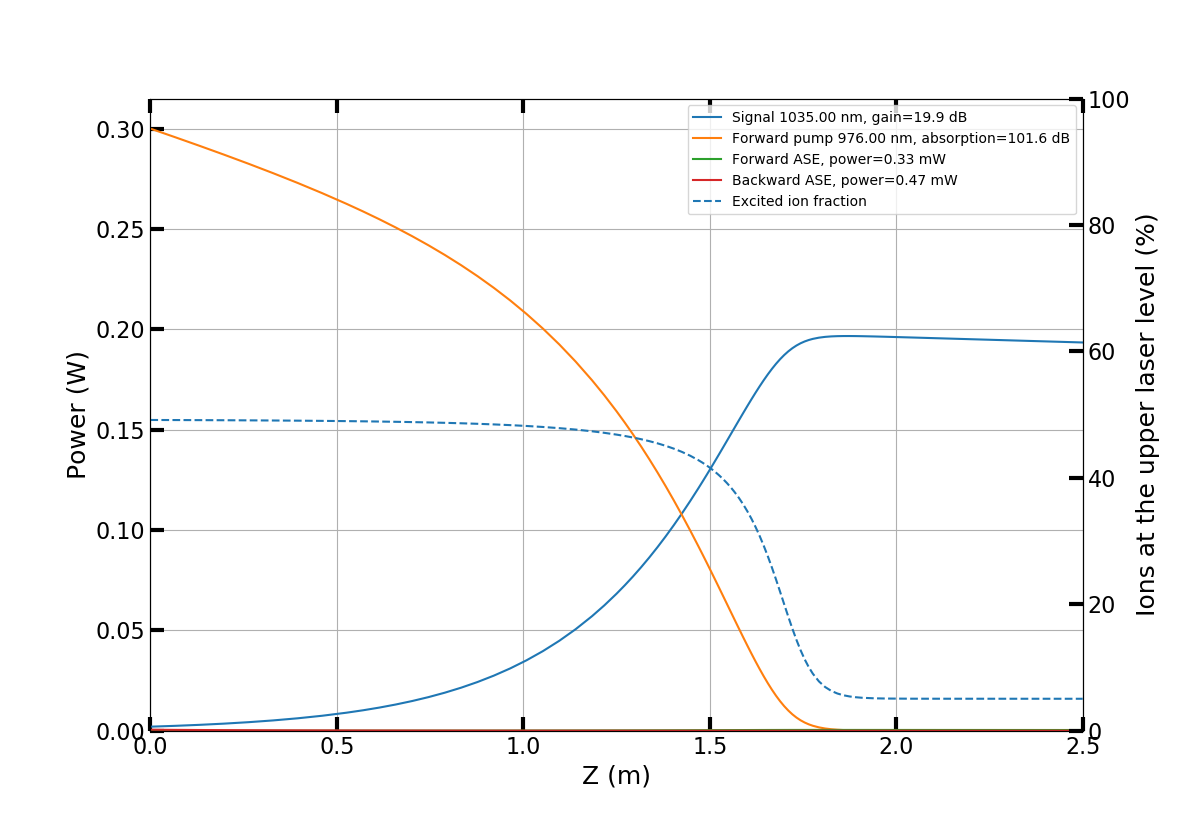
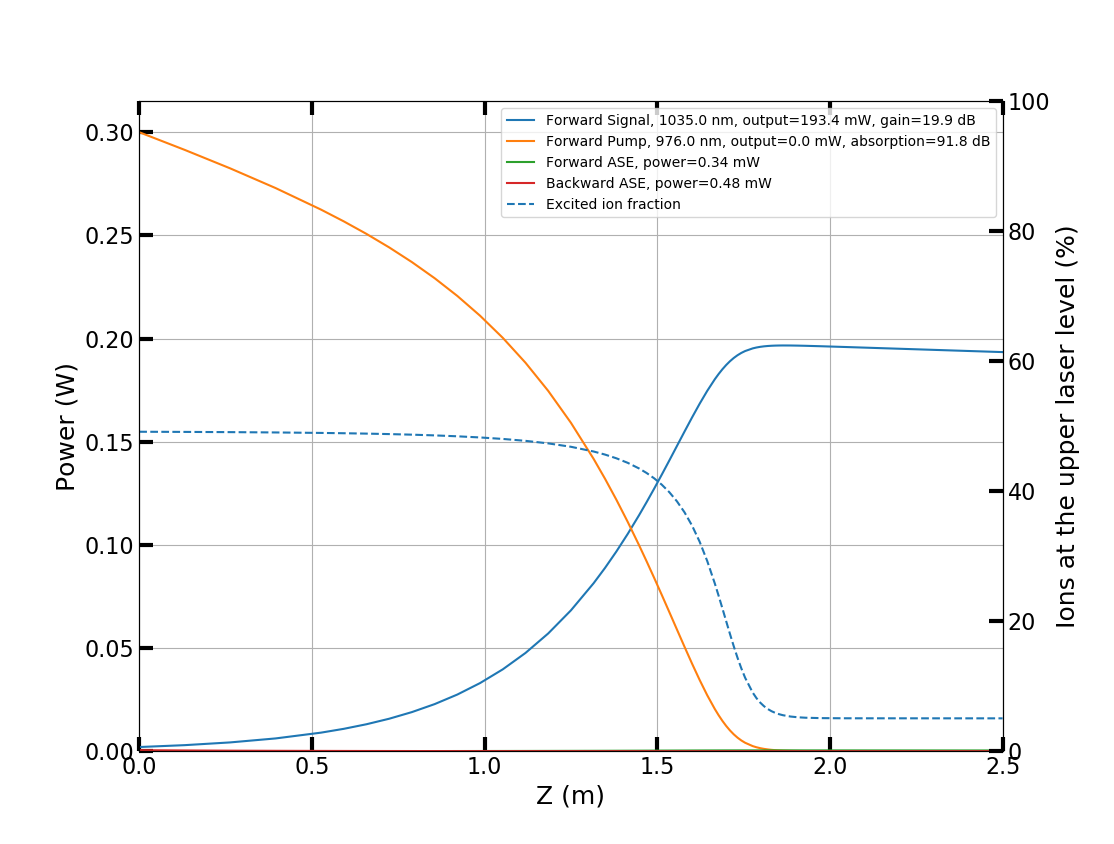
Finalizing Readme, setup.py and License for release of dynamic simulation.

diff --git a/README.html b/README.html
@@ -366,17 +366,25 @@ ul.auto-toc {
 <div class="section" id="in-short">
 <h1>In short</h1>
 <p>PyFiberAmp is a rate equation simulation tool for rare-earth-doped fiber amplifiers and fiber lasers partly based on the Giles
-model <a class="footnote-reference" href="#id4" id="id1">[1]</a>. PyFiberAmp allows an arbitrary number of user-defined time-varying signals from continuous-wave steady-state operation to nanosecond pulses in both
+model <a class="footnote-reference" href="#id4" id="id1">[1]</a>. PyFiberAmp allows an arbitrary number of user-defined time-varying signals from continuous-wave to nanosecond pulses in both
 core-pumped and double-clad fiber amplifiers. It also includes reflective boundary conditions for modeling simple CW, gain-switched and
 Q-switched fiber lasers. The time-dynamic simulations are accelerated by a dedicated partial differential equation solver written in C++.
 In addition to signal and pump beams, PyFiberAmp also supports amplified spontaneous emission (ASE) and stimulated and spontaneous Raman scattering effects (SRS) <a class="footnote-reference" href="#id5" id="id2">[2]</a> (SRS only in steady-state simulations).
 Documentation (still in progress) is available on <a class="reference external" href="https://pyfiberamp.readthedocs.io/en/latest/index.html">Read the Docs</a>.
-Do you have a question, a comment or a feature request? Please open a new issue on GitHub.</p>
+Do you have a question, comment or a feature request? Please open a new issue on GitHub
+or contact me at <a class="reference external" href="mailto:pyfiberamp&#64;gmail.com">pyfiberamp&#64;gmail.com</a>.</p>
+</div>
+<div class="section" id="a-visual-example">
+<h1>A visual example</h1>
+<p>Few-nanosecond pulses propagating in an Yb-doped fiber amplifier are distorted because of gain saturation.
+The Gaussian pulse with its exponential leading edge retains its shape better than the square or saw-tooth
+pulses.</p>
 <img alt="docs/images/pulses.gif" class="align-center" src="docs/images/pulses.gif" />
+<!-- Listaus: 1) esimerkkinotebookit, 2) pÃ¤ivitetyt kuvat readmehen 3) asennustesti tÃ¤llÃ¤ ja toisella koneella 4) merge -->
 </div>
 <div class="section" id="download">
 <h1>Download</h1>
-<p>PyFiberAmp is not yet on PyPI. You can clone the repository with</p>
+<p>PyFiberAmp is not yet on PyPI. You can either download the code as zip-file or clone the repository with</p>
 <pre class="literal-block">
 $ git clone git://github.com/Jomiri/pyfiberamp.git
 </pre>
@@ -385,32 +393,41 @@ $ git clone git://github.com/Jomiri/pyfiberamp.git
 python setup.py install
 </pre>
 </div>
+<div class="section" id="system-requirements">
+<h1>System requirements</h1>
+<p>PyFiberAmp depends on the standard scientific Python packages: Numpy, SciPy and Matplotlib and has been
+tested on Windows 7 and Windows 10. It but should work on other operating systems as well
+provided that Python and the required packages are installed. The <a class="reference external" href="https://www.anaconda.com/download/">Anaconda distribution</a> contains everything out of the box.</p>
+<p>Even though all of PyFiberAmp's functionality is available in interpreted Python code, the use of the separate
+C++ extension is recommended for computationally intensive time-dynamic simulations.
+The system requirements of the C++ extension are stricter: Windows 7 or 10, Python 3.6 and a fairly modern
+CPU with AVX2 instruction support. If you cannot satisfy the requirements, open a new issue or send me a message,
+and I'll try to provide you with a compatible (but slower) version.</p>
+</div>
 <div class="section" id="example">
 <h1>Example</h1>
 <p>The simple example below demonstrates a core-pumped Yb-doped fiber amplifier. All units are in SI.</p>
 <pre class="literal-block">
-from pyfiberamp import FiberAmplifierSimulation
+from pyfiberamp.steady_state import SteadyStateSimulation
 from pyfiberamp.fibers import YbDopedFiber
 
-yb_number_density = 2e25 # m^-3
-core_r = 3e-6
-background_loss = 0
-length = 2.5 # m
+yb_number_density = 2e25  # m^-3
+core_radius = 3e-6  # m
+length = 2.5  # m
 core_na = 0.12
-tolerance = 1e-5
 
 fiber = YbDopedFiber(length=length,
-                    core_radius=core_r,
+                    core_radius=core_radius,
                     ion_number_density=yb_number_density,
-                    background_loss=background_loss,
+                    background_loss=0,
                     core_na=core_na)
-simulation = FiberAmplifierSimulation()
+simulation = SteadyStateSimulation()
 simulation.fiber = fiber
 simulation.add_cw_signal(wl=1035e-9, power=2e-3)
 simulation.add_forward_pump(wl=976e-9, power=300e-3)
-simulation.add_ase(wl_start=1000e-9, wl_end=1080e-9, n_bins=40)
+simulation.add_ase(wl_start=1000e-9, wl_end=1080e-9, n_bins=80)
 
-result = simulation.run(tol=tolerance)
+result = simulation.run(tol=1e-5)
 result.plot_amplifier_result()
 </pre>
 <p>The script plots the power evolution in the amplifier and the amplified spontaneous emission (ASE) spectra. The
@@ -419,7 +436,7 @@ the signal starts to be reabsorbed by the fiber. This design is not perfect 1) b
 2) because the input signal is too weak to saturate the gain at the start of the fiber.</p>
 <img alt="docs/images/readme_power_evolution.png" class="align-center" src="docs/images/readme_power_evolution.png" style="width: 769px; height: 543px;" />
 <img alt="docs/images/readme_ase_spectra.png" class="align-center" src="docs/images/readme_ase_spectra.png" style="width: 769px; height: 543px;" />
-<p>For more usage examples, please see <a class="reference external" href="https://github.com/Jomiri/pyfiberamp/blob/master/Examples.ipynb">the Jupyter notebook</a>.</p>
+<p>For more usage examples, please see the Jupyter notebooks in the examples folder.</p>
 </div>
 <div class="section" id="fiber-data">
 <h1>Fiber data</h1>
@@ -433,7 +450,8 @@ references.</p>
 </div>
 <div class="section" id="license">
 <h1>License</h1>
-<p>PyFiberAmp is licensed under the MIT license.</p>
+<p>PyFiberAmp is licensed under the MIT license. The C++ extension depends on the <a class="reference external" href="https://github.com/pybind/pybind11">pybind11</a>  and <a class="reference external" href="http://arma.sourceforge.net/">Armadillo</a> projects. See the license file
+for their respective licenses.</p>
 </div>
 <div class="section" id="references">
 <h1>References</h1>

diff --git a/setup.py b/setup.py
@@ -1,8 +1,8 @@
 from setuptools import setup
 
-VERSION = '0.2.0dev'
+VERSION = '0.2.0'
 
-long_description = '''PyFiberAmp is a set of tools for modeling rare-earth-doped fiber laser and amplifiers 
+long_description = '''PyFiberAmp is a set of tools for modeling rare-earth-doped fiber lasers and amplifiers 
 using the Giles rate equation model.'''
 
 setup(
@@ -28,5 +28,6 @@ setup(
         'pyfiberamp.util',
     ],
     include_package_data=True,
-    package_data={'pyfiberamp': ['spectroscopies/fiber_spectra/*.dat']}
+    package_data={'pyfiberamp': ['spectroscopies/fiber_spectra/*.dat',
+                                 'dynamic/fiber_simulation_pybindings.cp36-win_amd64.pyd']}
 )

diff --git a/README.rst b/README.rst
@@ -5,12 +5,19 @@
 In short
 ============
 PyFiberAmp is a rate equation simulation tool for rare-earth-doped fiber amplifiers and fiber lasers partly based on the Giles
-model [1]_. PyFiberAmp allows an arbitrary number of user-defined time-varying signals from continuous-wave steady-state operation to nanosecond pulses in both
+model [1]_. PyFiberAmp allows an arbitrary number of user-defined time-varying signals from continuous-wave to nanosecond pulses in both
 core-pumped and double-clad fiber amplifiers. It also includes reflective boundary conditions for modeling simple CW, gain-switched and
 Q-switched fiber lasers. The time-dynamic simulations are accelerated by a dedicated partial differential equation solver written in C++.
 In addition to signal and pump beams, PyFiberAmp also supports amplified spontaneous emission (ASE) and stimulated and spontaneous Raman scattering effects (SRS) [2]_ (SRS only in steady-state simulations).
 Documentation (still in progress) is available on `Read the Docs <https://pyfiberamp.readthedocs.io/en/latest/index.html>`_.
-Do you have a question, a comment or a feature request? Please open a new issue on GitHub.
+Do you have a question, comment or a feature request? Please open a new issue on GitHub
+or contact me at pyfiberamp@gmail.com.
+
+A visual example
+=================
+Few-nanosecond pulses propagating in an Yb-doped fiber amplifier are distorted because of gain saturation.
+The Gaussian pulse with its exponential leading edge retains its shape better than the square or saw-tooth
+pulses.
 
 .. image:: docs/images/pulses.gif
     :align: center
@@ -20,7 +27,7 @@ Do you have a question, a comment or a feature request? Please open a new issue 
 
 Download
 =========
-PyFiberAmp is not yet on PyPI. You can clone the repository with
+PyFiberAmp is not yet on PyPI. You can either download the code as zip-file or clone the repository with
 ::
 
     $ git clone git://github.com/Jomiri/pyfiberamp.git
@@ -30,33 +37,44 @@ and then install the library with
 
     python setup.py install
 
+System requirements
+===================
+PyFiberAmp depends on the standard scientific Python packages: Numpy, SciPy and Matplotlib and has been
+tested on Windows 7 and Windows 10. It but should work on other operating systems as well
+provided that Python and the required packages are installed. The `Anaconda distribution
+<https://www.anaconda.com/download/>`_ contains everything out of the box.
+
+Even though all of PyFiberAmp's functionality is available in interpreted Python code, the use of the separate
+C++ extension is recommended for computationally intensive time-dynamic simulations.
+The system requirements of the C++ extension are stricter: Windows 7 or 10, Python 3.6 and a fairly modern
+CPU with AVX2 instruction support. If you cannot satisfy the requirements, open a new issue or send me a message,
+and I'll try to provide you with a compatible (but slower) version.
+
 Example
 ========
 The simple example below demonstrates a core-pumped Yb-doped fiber amplifier. All units are in SI.
 ::
 
-    from pyfiberamp import FiberAmplifierSimulation
+    from pyfiberamp.steady_state import SteadyStateSimulation
     from pyfiberamp.fibers import YbDopedFiber
 
-    yb_number_density = 2e25 # m^-3
-    core_r = 3e-6
-    background_loss = 0
-    length = 2.5 # m
+    yb_number_density = 2e25  # m^-3
+    core_radius = 3e-6  # m
+    length = 2.5  # m
     core_na = 0.12
-    tolerance = 1e-5
 
     fiber = YbDopedFiber(length=length,
-                        core_radius=core_r,
+                        core_radius=core_radius,
                         ion_number_density=yb_number_density,
-                        background_loss=background_loss,
+                        background_loss=0,
                         core_na=core_na)
-    simulation = FiberAmplifierSimulation()
+    simulation = SteadyStateSimulation()
     simulation.fiber = fiber
     simulation.add_cw_signal(wl=1035e-9, power=2e-3)
     simulation.add_forward_pump(wl=976e-9, power=300e-3)
-    simulation.add_ase(wl_start=1000e-9, wl_end=1080e-9, n_bins=40)
+    simulation.add_ase(wl_start=1000e-9, wl_end=1080e-9, n_bins=80)
 
-    result = simulation.run(tol=tolerance)
+    result = simulation.run(tol=1e-5)
     result.plot_amplifier_result()
 
 The script plots the power evolution in the amplifier and the amplified spontaneous emission (ASE) spectra. The
@@ -74,8 +92,7 @@ the signal starts to be reabsorbed by the fiber. This design is not perfect 1) b
     :width: 769px
     :height: 543px
 
-For more usage examples, please see `the Jupyter notebook
-<https://github.com/Jomiri/pyfiberamp/blob/master/Examples.ipynb>`_.
+For more usage examples, please see the Jupyter notebooks in the examples folder.
 
 Fiber data
 ==========
@@ -90,7 +107,9 @@ references.
 
 License
 ========
-PyFiberAmp is licensed under the MIT license.
+PyFiberAmp is licensed under the MIT license. The C++ extension depends on the `pybind11
+<https://github.com/pybind/pybind11>`_  and `Armadillo <http://arma.sourceforge.net/>`_ projects. See the license file
+for their respective licenses.
 
 References
 ===========
